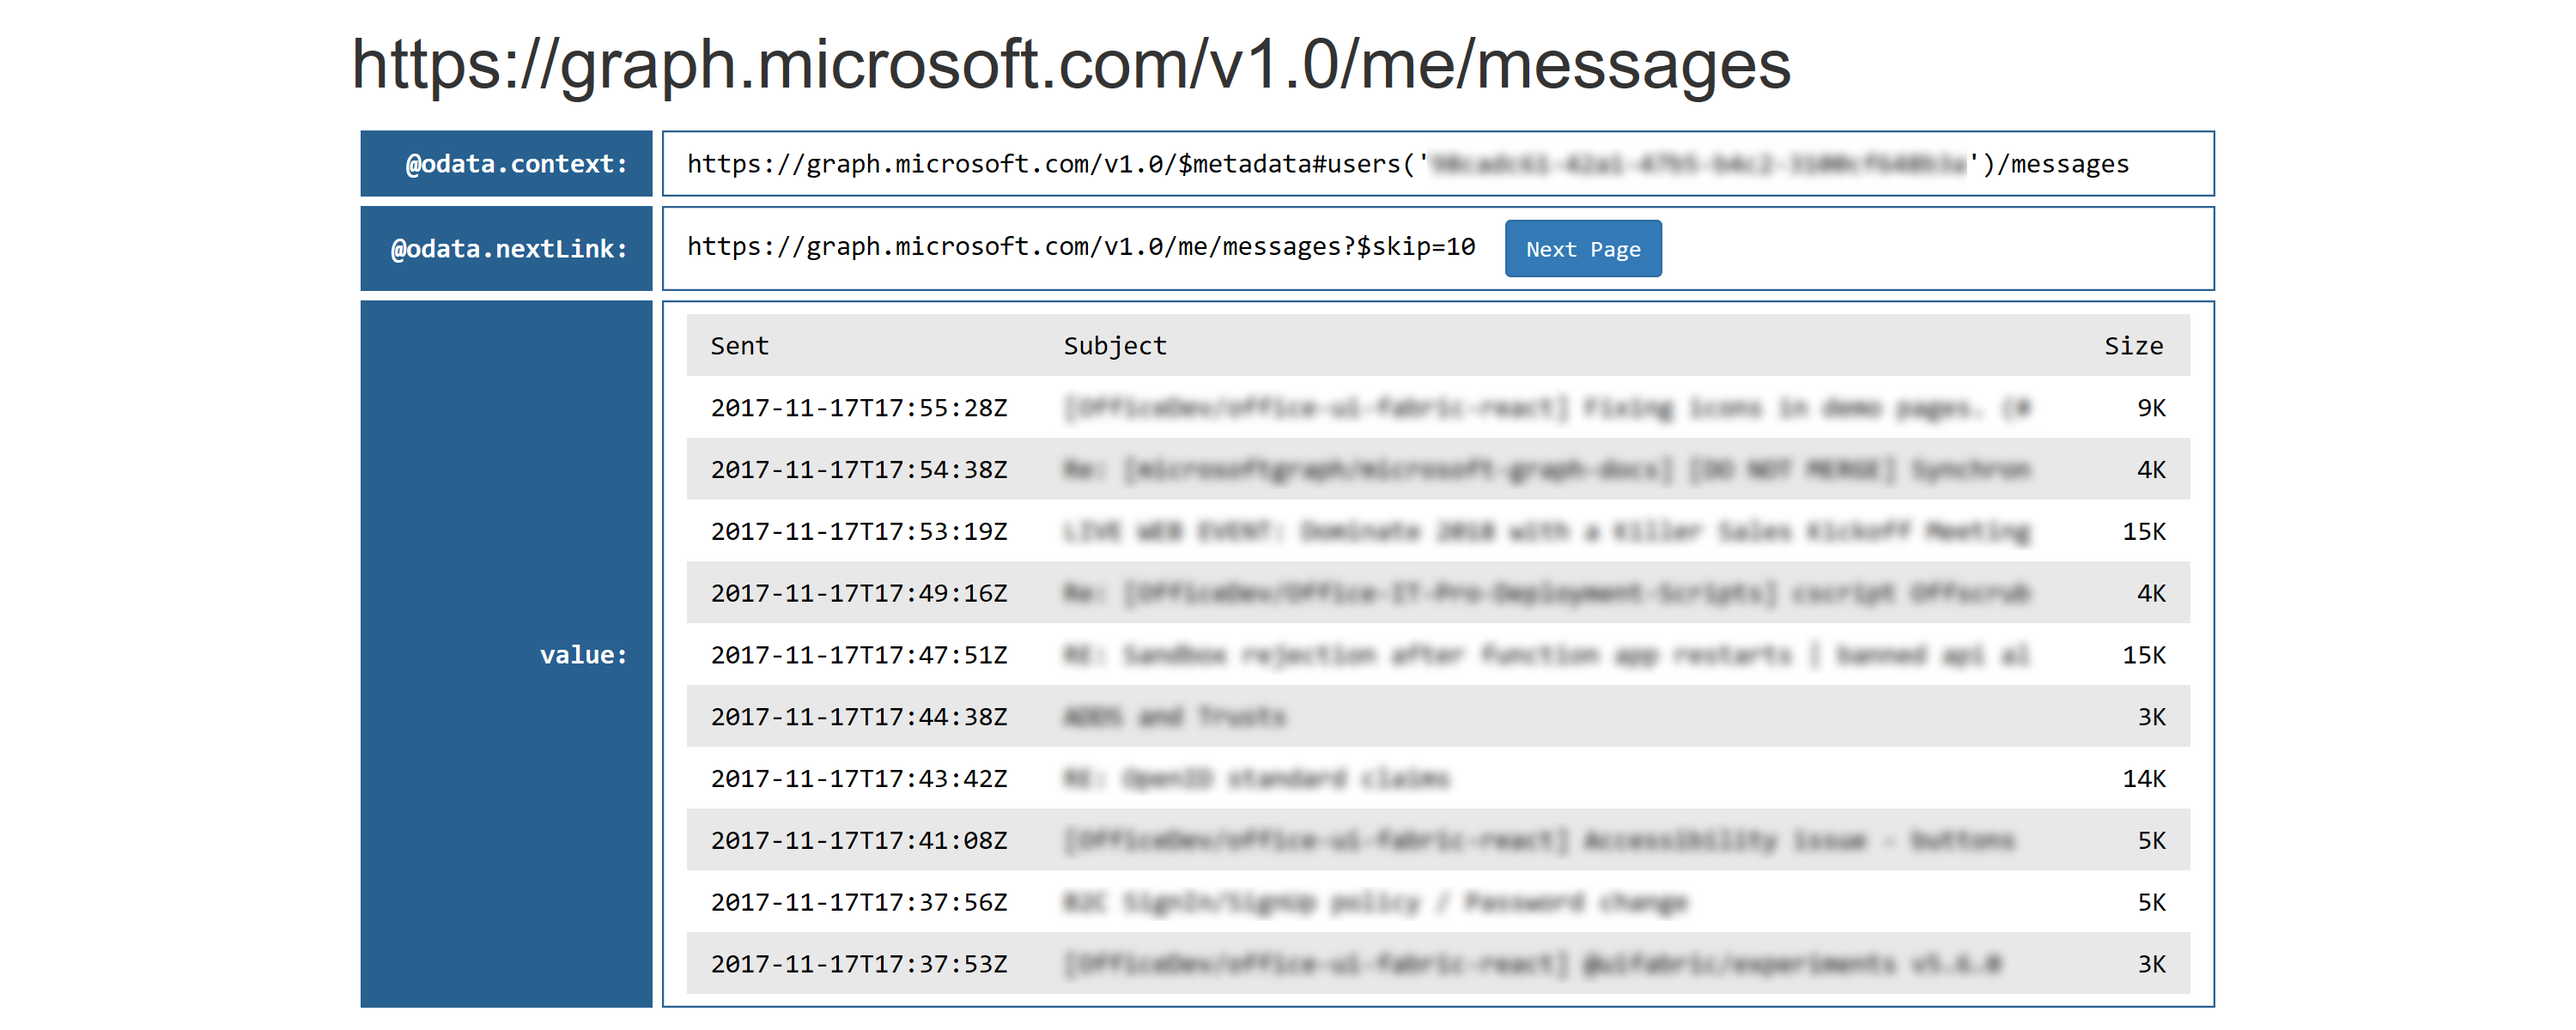
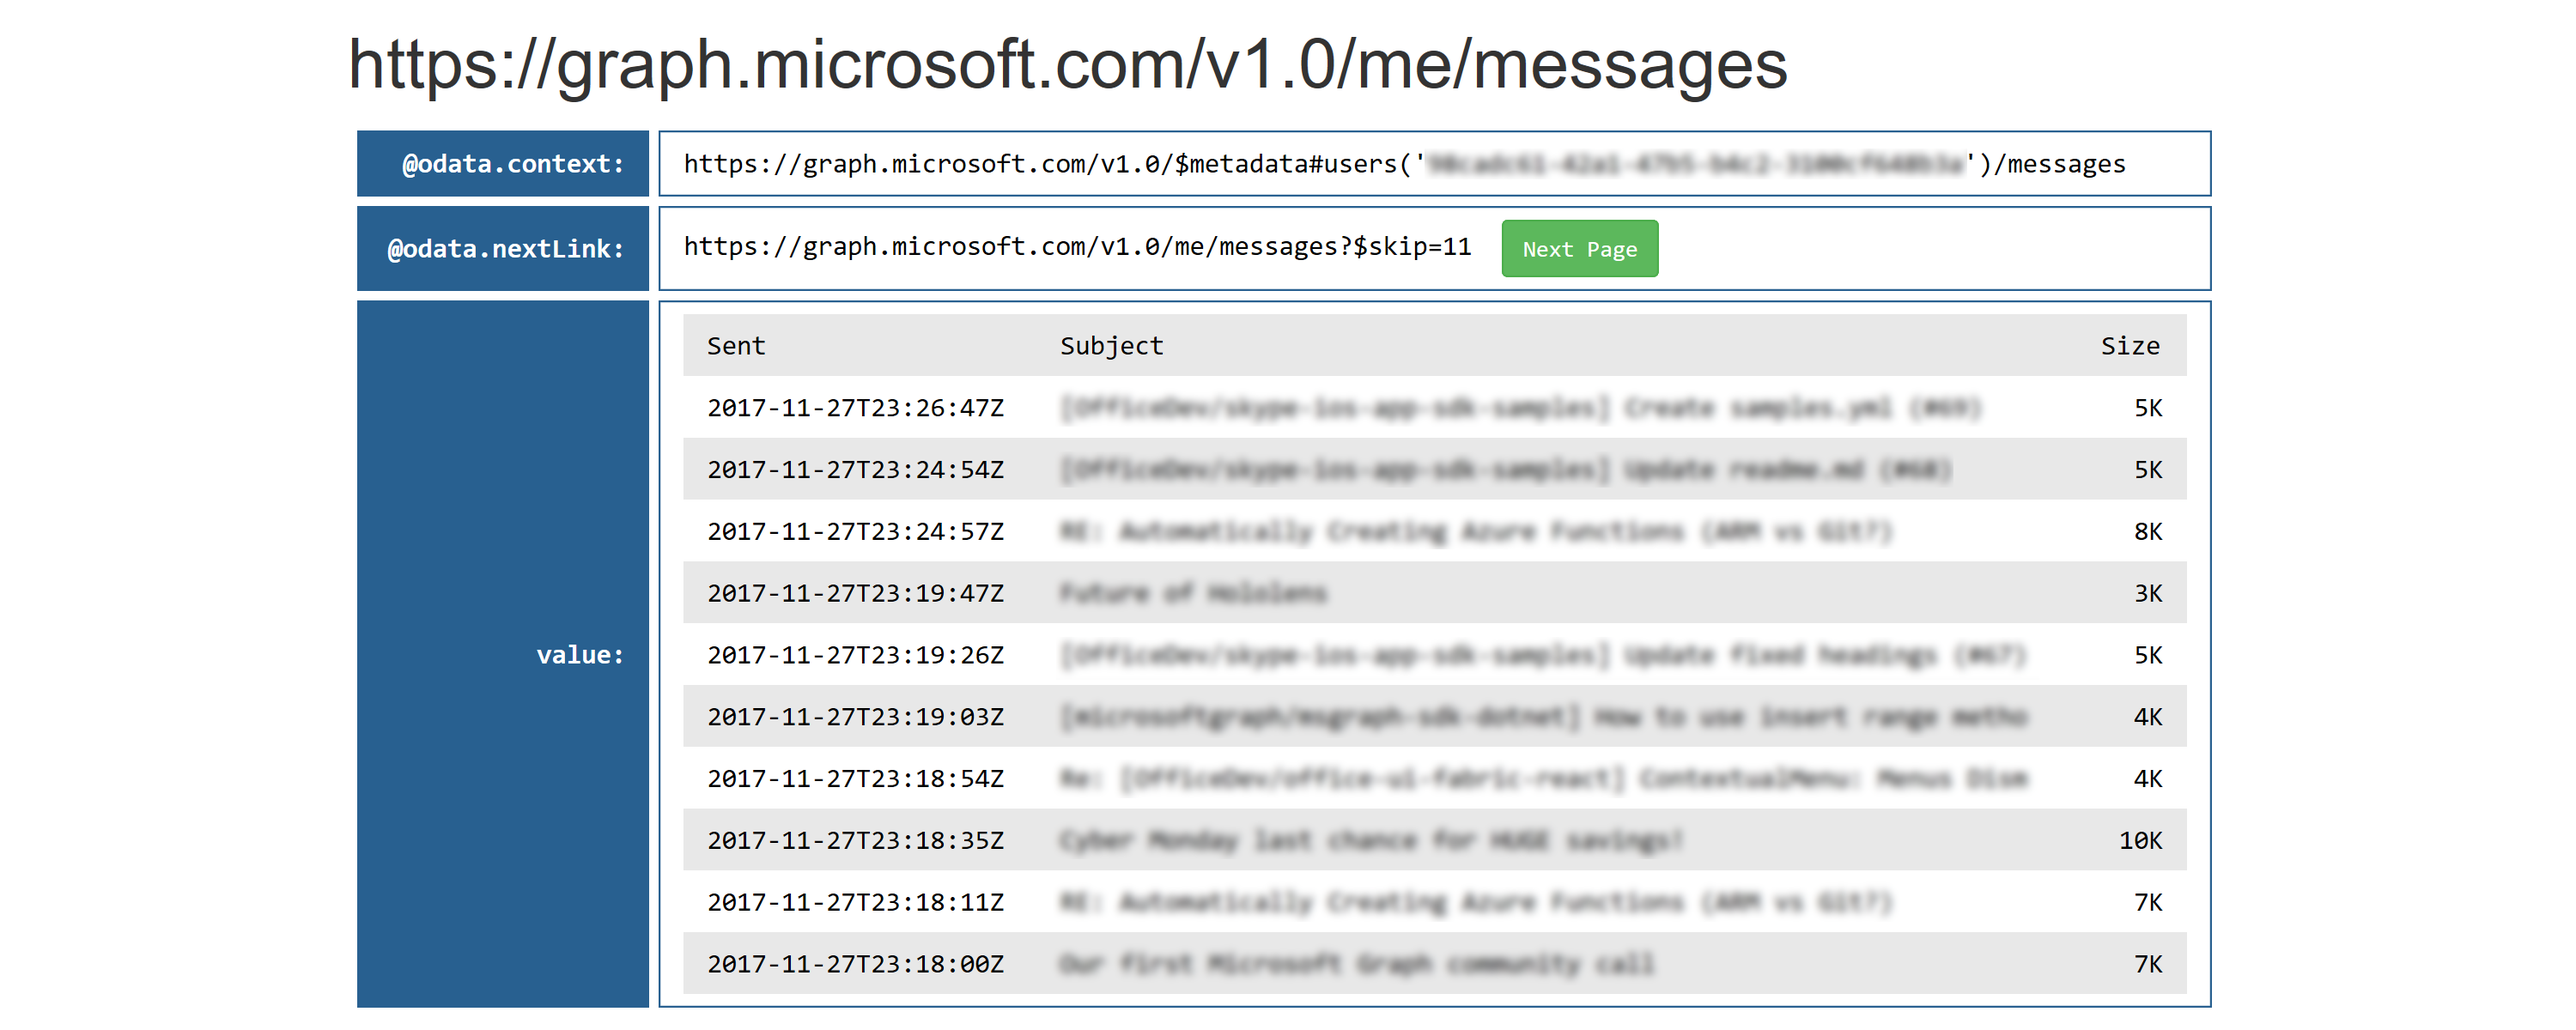
add generators.py

diff --git a/static/templates/generator.html b/static/templates/generator.html
@@ -1,0 +1,35 @@
+<!DOCTYPE html>
+<!-- Copyright (c) Microsoft. All rights reserved. Licensed under the MIT license.
+See LICENSE in the source repository root for complete license information. -->
+<html>
+    <head>
+        <meta charset="utf-8" />
+        <meta name="viewport" content="width=device-width, initial-scale=1.0">
+        <title>Python Generator Example</title>
+        <link rel="stylesheet" type="text/css" href="/static/css/bootstrap.min.css" />
+        <link rel="stylesheet" type="text/css" href="/static/css/site.css?version=1.02" />
+    </head>
+    <body>
+        <div class="container homepage-container">
+            <h1>Python Generator Sample</h1>
+            <table class="endpoint-table">
+                <tr>
+                    <th>sentDateTime:</th>
+                    <td>{{graphdata['sentDateTime']}}&nbsp;&nbsp;<button type="button" class="btn btn-success btn-sm" onclick="window.location.href='/generator'">Next Message</button></td>
+                </tr>
+                <tr>
+                    <th>subject:</th>
+                    <td>{{graphdata['subject']}}</td>
+                </tr>
+                <tr>
+                    <th>sender:</th>
+                    <td>{{graphdata['sender']}}</td>
+                </tr>
+                <tr>
+                    <th># bytes:</th>
+                    <td>{{int(len(str(graphdata))/1024)}}K</td>
+                </tr>
+            </table>
+        </div>
+    </body>
+</html>

diff --git a/static/templates/pagination.html b/static/templates/pagination.html
@@ -22,7 +22,7 @@ See LICENSE in the source repository root for complete license information. -->
                 </tr>
                 <tr>
                     <th>@odata.nextLink:</th>
-                    <td>{{next_page}}&nbsp;&nbsp;<button type="button" class="btn btn-primary btn-sm" onclick="window.location.href='/pagination?endpoint={{next_page}}'">Next Page</button></td>
+                    <td>{{next_page}}&nbsp;&nbsp;<button type="button" class="btn btn-success btn-sm" onclick="window.location.href='/pagination?endpoint={{next_page}}'">Next Page</button></td>
                 </tr>
                 <tr>
                     <th>value:</th>
@@ -43,6 +43,7 @@ See LICENSE in the source repository root for complete license information. -->
                         </table>
                     </td>
                 </tr>
+            </table>
         </div>
     </body>
 </html>

diff --git a/static/templates/homepage.html b/static/templates/homepage.html
@@ -11,8 +11,8 @@ See LICENSE in the source repository root for complete license information. -->
     </head>
     <body>
         <div class="container homepage-container">
-            <h1>Pagination Sample</h1>
-            <p>This sample shows how to work with paginated responses in Microsoft Graph</p>
+            <h1>{{title}}</h1>
+            <p>Demonstration of how to work with paginated responses in Microsoft Graph</p>
             <p><button type="button" class="btn btn-success btn-md" onclick="window.location.href='/login'">Connect</button></p>
         </div>
     </body>

diff --git a/static/css/site.css b/static/css/site.css
@@ -36,6 +36,7 @@ button.homepage {
   background: #286090;
   padding: 6px 12px;
   text-align: right;
+  width: 150px;
 }
 
 .endpoint-table td {

diff --git a/generator.py b/generator.py
@@ -8,6 +8,7 @@ import graphrest
 
 import config
 
+# create a Graph session object
 MSGRAPH = graphrest.GraphSession(client_id=config.CLIENT_ID,
                                  client_secret=config.CLIENT_SECRET,
                                  redirect_uri=config.REDIRECT_URI,
@@ -19,26 +20,38 @@ bottle.TEMPLATE_PATH = ['./static/templates']
 @bottle.view('homepage.html')
 def homepage():
     """Render the home page."""
-    return {'title': 'Pagination Basics'}
+
+    return {'title': 'Pythonic Generator'}
 
 @bottle.route('/login')
 def login():
     """Prompt user to authenticate."""
-    endpoint = MSGRAPH.api_endpoint('me/messages')
-    MSGRAPH.login(login_redirect='/pagination?endpoint=' + endpoint)
+    MSGRAPH.login(login_redirect='/generator')
 
 @bottle.route('/login/authorized')
 def authorized():
     """Handler for the application's Redirect Uri."""
     MSGRAPH.redirect_uri_handler()
 
-@bottle.route('/pagination')
-@bottle.view('pagination.html')
-def pagination():
-    """Example of paginated response from Microsoft Graph."""
-    endpoint = bottle.request.query.endpoint
-    graphdata = MSGRAPH.get(endpoint).json()
-    return {'graphdata': graphdata}
+@bottle.route('/generator')
+@bottle.view('generator.html')
+def generator():
+    """Example of using a Python generator to return paginated data."""
+    return {'graphdata': next(MSG_GENERATOR)}
+
+def messages(msgraph, mailfolder=None):
+    """Generator to return messages from a specified folder.
+    msgraph = authenticated Graph session object
+    mailfolder = name or id of mail folder; for example, 'inbox' or a
+                120-character ID value. If not specified, ALL messages
+                are returned, using the me/messages endpoint.
+    """
+    next_page = 'me/mailFolders/' + mailfolder + '/messages' if mailfolder else 'me/messages'
+    while next_page:
+        response = msgraph.get(next_page).json()
+        for msg in response.get('value', None):
+            yield msg
+        next_page = response.get('@odata.nextLink', None)
 
 @bottle.route('/static/<filepath:path>')
 def server_static(filepath):
@@ -47,4 +60,5 @@ def server_static(filepath):
     return bottle.static_file(filepath, root=os.path.join(root_folder, 'static'))
 
 if __name__ == '__main__':
+    MSG_GENERATOR = messages(MSGRAPH, 'inbox')
     bottle.run(app=bottle.app(), server='wsgiref', host='localhost', port=5000)

diff --git a/README.md b/README.md
@@ -32,7 +32,9 @@ When you query a paginated Graph API (for example, ```me/messages```), you'll ge
 * ```@odata.nextLink``` contains a link to the next page of results. You can do a GET against that endpoint to return the next page, which will contain a link to the next page after that, and you can repeat this process until the final page, which will not have this element.
 * ```value``` contains the returned data, as a list of JSON elements. In the ```me/messages``` example, this would be a list of email messages. The number of items returned is based on the page size. Each paginated API has a default page size (for example, the ```me/messages``` default is 10 messages), and you can specify a different page size if desired through use of the ```$top``` parameter. Note that the default page size and maximum page size may vary for different Graph APIs &mdash; see [Paging Microsoft Graph data in your app](https://developer.microsoft.com/en-us/graph/docs/concepts/paging) for more information.
 
-The following diagram shows how this works in practice, using the ```me/messages``` endpoint as an example. The message data has been omitted for clarity.
+The following diagram shows how this works in practice, using the ```me/messages``` endpoint as an example.
+
+/// run pagination.py as covered above
 
 ![pagination example](static/images/pagination-example.png)
 
@@ -40,11 +42,7 @@ The [pagination.py](https://github.com/microsoftgraph/python-sample-pagination/b
 
 ![most recent 10 messages](static/images/pagination-sample.png)
 
-The **@odata.nextLink** value links to the next page of results. Choose **Next Page** to load the next page of paginated results, and you'll see this:
-
-![next 10 messages](static/images/pagination-sample2.png)
-
-Each time you click on the **Next Page**, the next page of results is loaded. This is the fundamental behavior of paginated responses from Graph APIs. In the next section, [Using generators](#using-generators), we'll look at how to implement a Python generator function to hide these details and work with the result set as if it were a standard Python iterable.
+The **@odata.nextLink** value links to the next page of results. Each time you click on the **Next Page** button, the next page of results is loaded. This is the fundamental behavior of paginated responses from Graph APIs.
 
 ### What if @odata.nextLink is missing?
 
@@ -66,9 +64,47 @@ As a best practice, your code should allow for the fact that ```@odata.nextLink`
 
 ## Using generators
 
-/// how to implement a generator for paginated responses, show generators.py sample
+The Graph API returns _pages_ of results, as demonstrated in [pagination.py](https://github.com/microsoftgraph/python-sample-pagination/blob/master/pagination.py). But in your application or service, you may want to work with a single non-paginated collection of _items_ such as messages, users, or files. In the next sample, we'll create a Python [generator](https://wiki.python.org/moin/Generators) that hides the pagination details so that your application code can simply ask for a collection of messages and then iterate through them using standard Python idioms such as ```for messages in messages``` or ```next(message)```.
 
-/// in the pagination sample, we looked at the aggregation of all messages for the current user; in this sample, we're adding the concept of a mailfolder, so that you can step through messages in a particular folder if desired
+The ```messages()``` function in [generator.py](https://github.com/microsoftgraph/python-sample-pagination/blob/master/generator.py) returns a generator for a specified Graph session and mail folder. The code is simple:
+
+```python
+def messages(msgraph, mailfolder=None):
+    """Generator to return messages from a specified folder.
+    msgraph = authenticated Graph session object
+    mailfolder = name or id of mail folder; for example, 'inbox' or a
+                120-character ID value. If not specified, ALL messages
+                are returned, using the me/messages endpoint.
+    """
+    next_page = 'me/mailFolders/' + mailfolder + '/messages' if mailfolder else 'me/messages'
+    while next_page:
+        response = msgraph.get(next_page).json()
+        for msg in response.get('value', None):
+            yield msg
+        next_page = response.get('@odata.nextLink', None)
+```
+
+The key concept to understand in a Python generator is the ```yield``` statement, which returns a value but also retains the state of the generator function for the next call. We have an outer loop that steps through the pages (```while next_page:```) and an inner loop (```for msg in ...```) that returns each message from withing each page.
+
+To create the generator, we pass the Graph session connection object and a mail folder:
+
+```python
+MSG_GENERATOR = messages(MSGRAPH, 'inbox')
+```
+
+Then the calling code simply uses Python's built-in ```next()``` function to retrieve messages:
+
+```python
+@bottle.route('/generator')
+@bottle.view('generator.html')
+def generator():
+    """Example of using a Python generator to return paginated data."""
+    return {'graphdata': next(MSG_GENERATOR)}
+```
+
+After a page of results has been returned, the outer loop of the ```messages()``` function will retrieve the next page. The developer doesn't need to be aware of this, though: you can call ```next(MSG_GENERATOR)``` whenever you need the next message, without regard for the page boundaries. As a practical matter, you may notice a slightly longer response time whenever new page is retrieved (every 10th message, with the default page size of 10 messages), but the individual messages within each page are returned immediately without any need to call Graph, because they're in the page of results that is being retained in the state of the generator function after each ```yield``` statement.
+
+Python generators are recommended for working with all paginated results from Microsoft Graph. You can use the same technique demonstrated in this sample for users, groups, drive items, and other paginated responses from Graph APIs.
 
 ## Contributing
 
